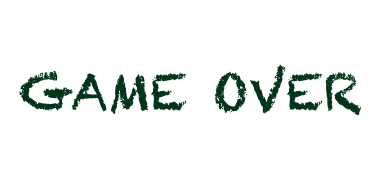
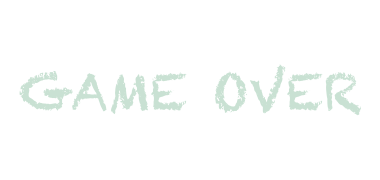
end screens and sound loop
finished setting up the end screens designs and made the sound start when the actual game starts

Changed region(s): [[0.55, 0.3611, 0.9553, 0.6389], [0.0289, 0.3889, 0.4921, 0.6389]]

diff --git a/MOD-JAM/js/script.js b/MOD-JAM/js/script.js
@@ -19,7 +19,7 @@
  * all my let (hopefully)
  */
 //let for img and sounds
-// let mySound;
+let mySound;
 let titleImg
 let grassImg
 let wintxImg
@@ -69,7 +69,7 @@ const fly = {
 //addind sounds & images
 function preload() {
 
-    // mySound = loadSound('./assets/sounds/nature-sounds.mp3')
+    mySound = loadSound('./assets/sounds/nature-sounds.mp3')
     titleImg = loadImage('./assets/images/title-frog.png')
     grassImg = loadImage('./assets/images/quenouille-frog.png')
     wintxImg = loadImage('./assets/images/winner-frog.png')
@@ -144,16 +144,6 @@ function lineScore() {
     line(220, 70, scoreX, 70)
 
 }
-
-
-// //sound, just a placeholder for now
-// function mousePressed() {
-//     if (mySound.isPlaying()) {
-//         mySound.stop()
-//     } else {
-//         mySound.loop()
-//     }
-// }
 
 
 /**
@@ -440,6 +430,7 @@ function keyTyped() {
     // Check for the "c" character using key.
     if (keyCode === 32) {
         gameState = "play"
+        mySound.loop()
     }
 }
 
@@ -449,6 +440,9 @@ function keyTyped() {
  */
 function gameOver() {
     background('#185511ff')
+
+    imageMode(CENTER)
+    image(losetxtImg, 320, 150, 380, 180)
 
     push()
     rectMode(CENTER)
@@ -466,13 +460,16 @@ function gameOver() {
     rect(320, 170, 381, 180, 40)
     pop()
 
+    imageMode(CENTER, CENTER)
+    image(losegrassImg, 320, 240, 640, 480)
+
     textAlign(CENTER)
     textFont("Courier New")
     textSize(16)
     fill('#D7F1CD')
     stroke('#D7F1CD')
     strokeWeight(1);
-    text('The Bog ate you', 320, 340)
+    text('The Bog ate you', 320, 220)
 }
 
 
@@ -481,8 +478,10 @@ function gameOver() {
  * winner part!
  */
 function winning() {
-    background('#D7F1CD')
+    background('#badeacff')
 
+    imageMode(CENTER)
+    image(wintxImg, 320, 150, 380, 180)
 
     push()
     rectMode(CENTER)
@@ -500,11 +499,16 @@ function winning() {
     rect(320, 170, 381, 180, 40)
     pop()
 
+    imageMode(CENTER)
+    image(wingrassImg, 320, 320, 640, 480)
+    // imageMode(CENTER, CENTER)
+    // image(losegrassImg, 320, 240, 640, 480)
+
     textAlign(CENTER)
     textFont("Courier New")
     textSize(16)
     fill('#185511ff')
     stroke('#185511ff')
     strokeWeight(1);
-    text('You ate the Bog!', 320, 340)
+    text('You ate the Bog!', 320, 220)
 }
